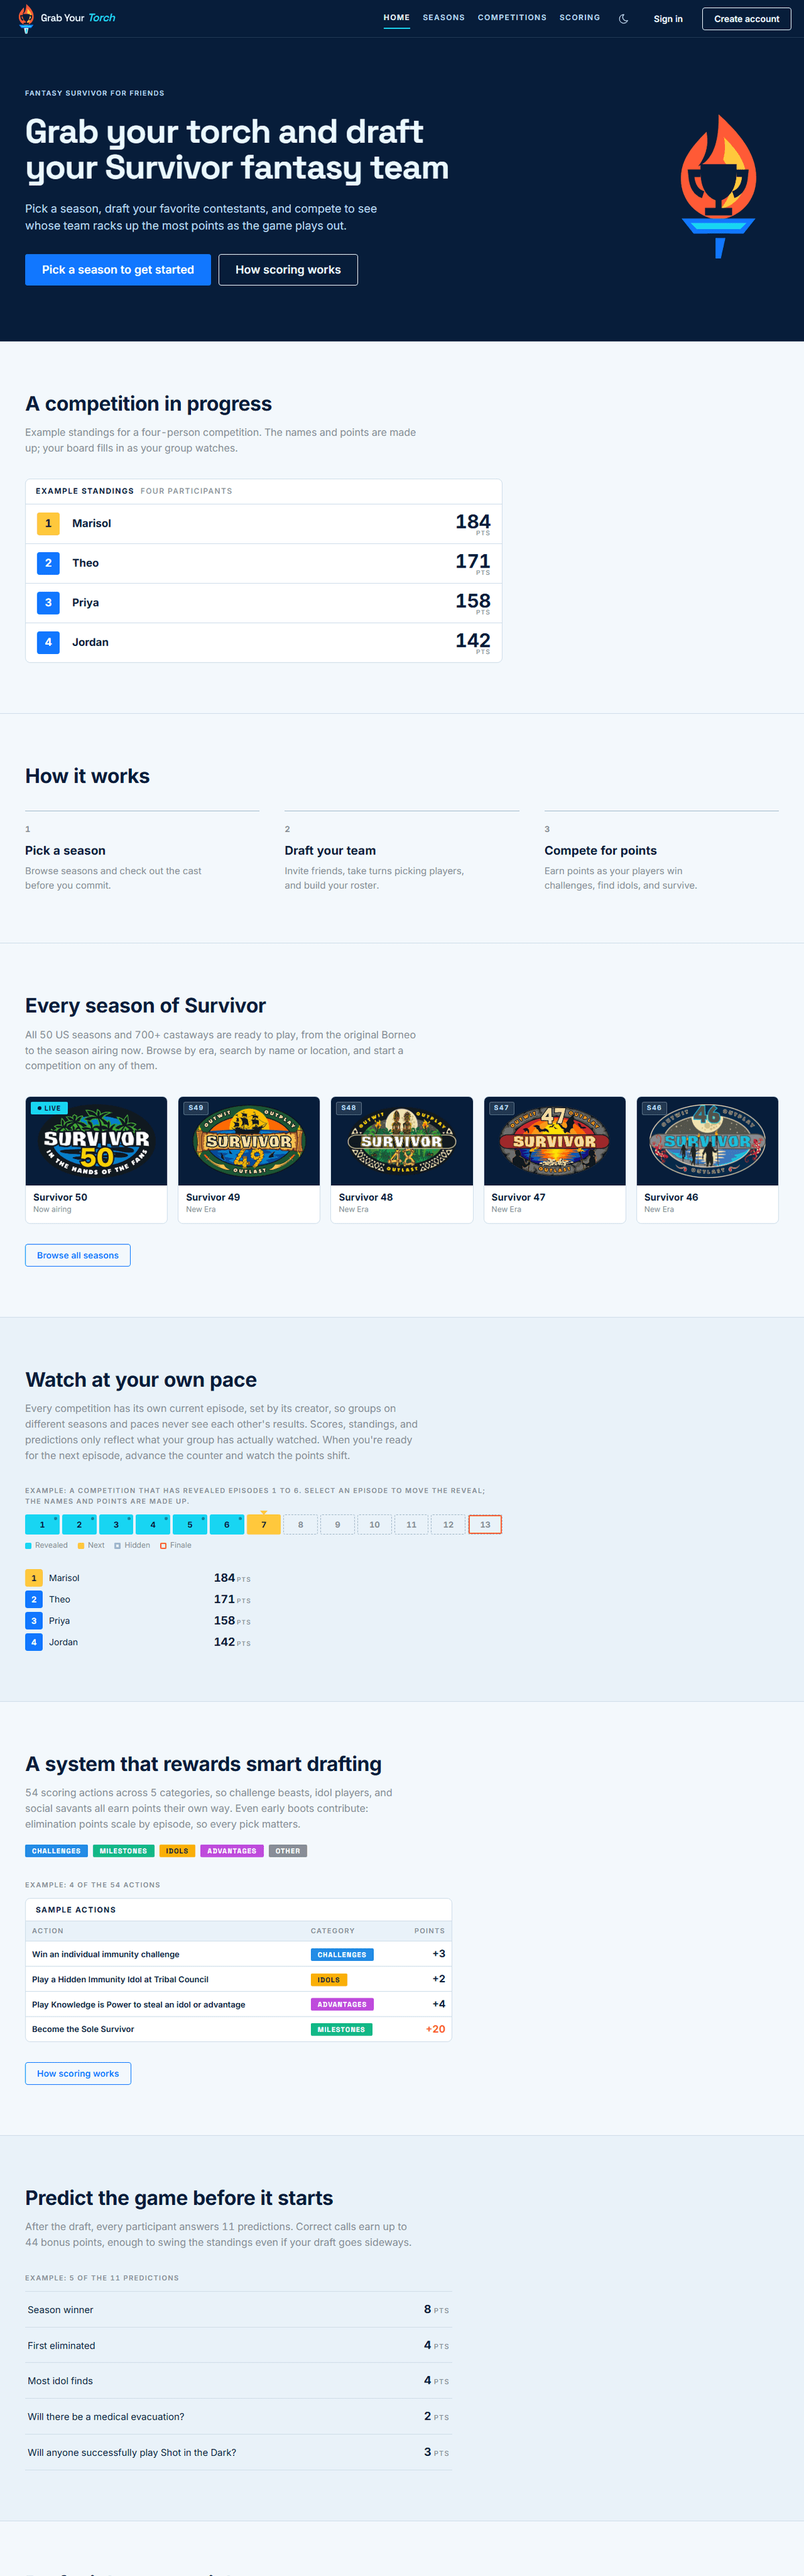
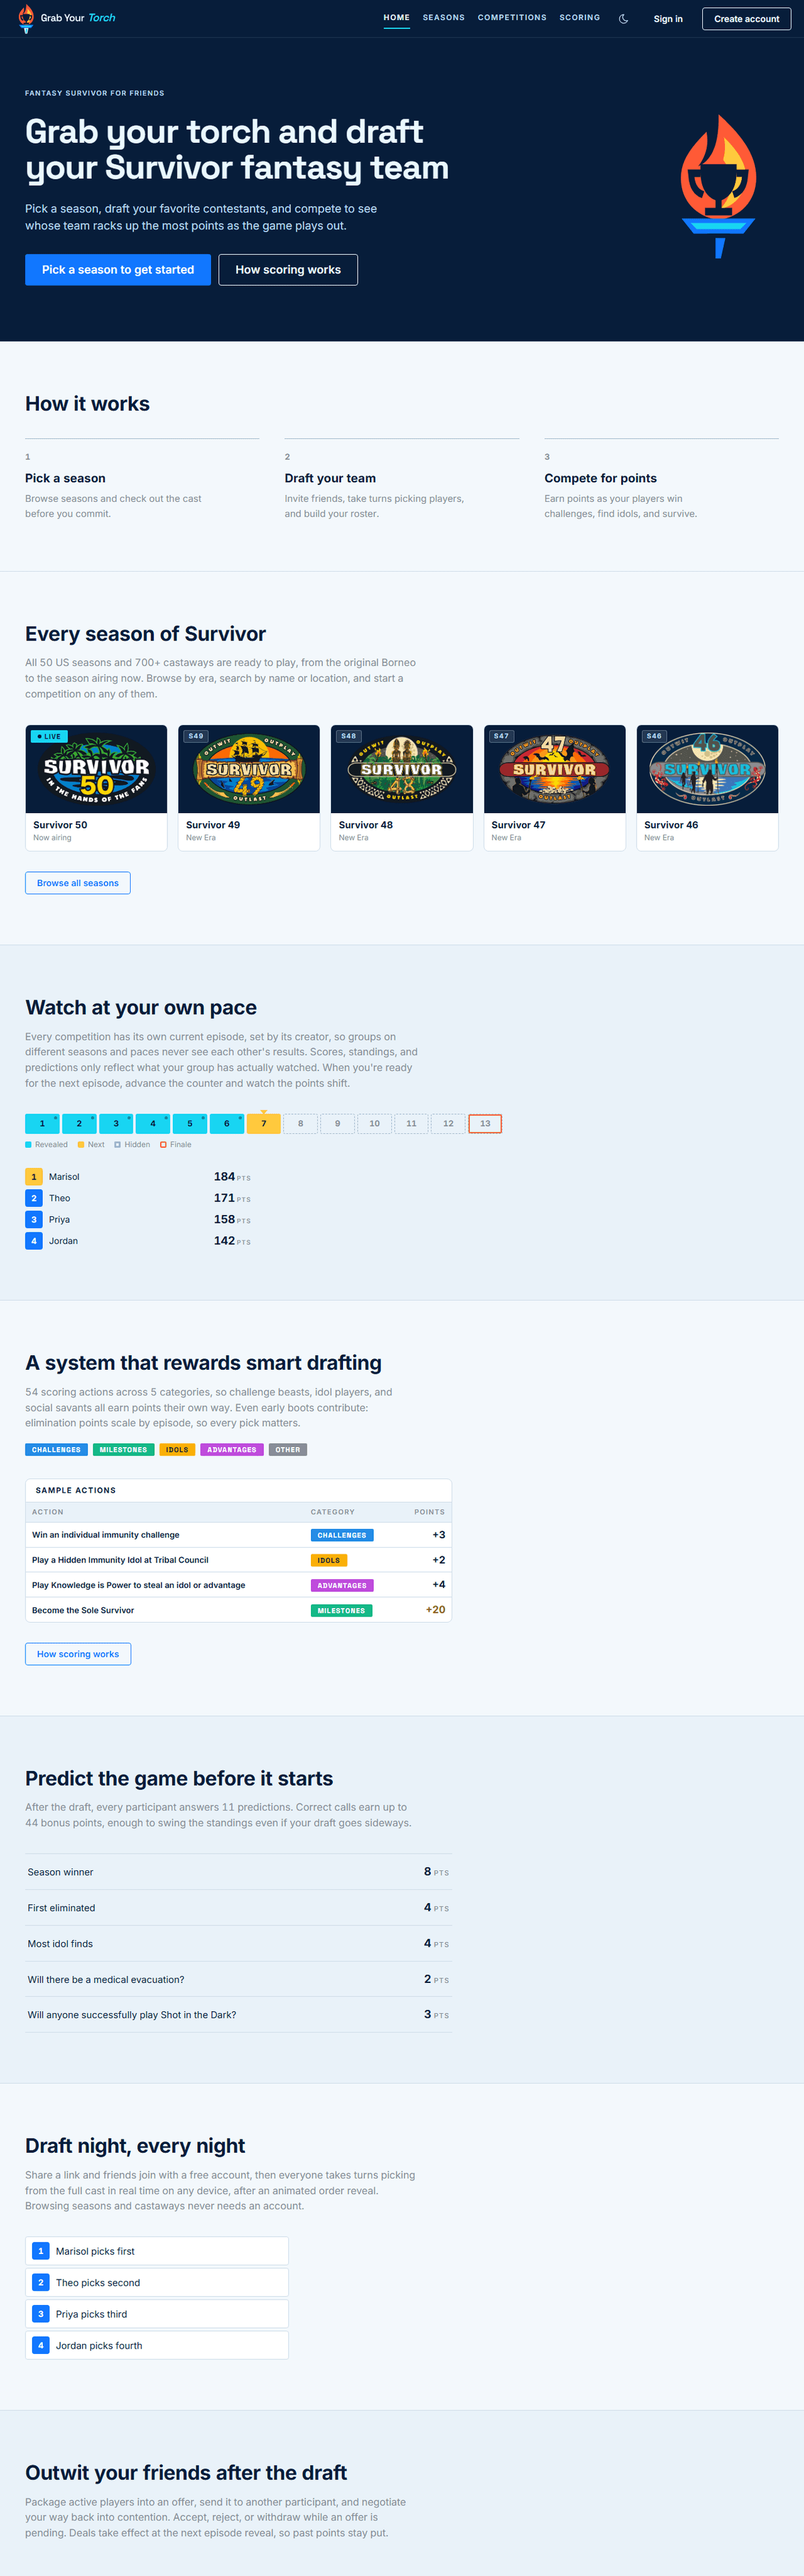
feat: simplify the footer and the homepage examples
- footer: one signature row (lockup, hairline, tagline) with the links on the same baseline; the CBS disclaimer is gone
- homepage: drop the example standings section and every "Example:" caption; the Sole Survivor points are gold, not ember
- seasons: the marquee slot is labelled Latest when no season is airing

diff --git a/src/components/Home/Home.tsx b/src/components/Home/Home.tsx
@@ -150,44 +150,6 @@ export const Home = () => {
       </section>
 
       <div className={classes.sections}>
-        {/* Example standings: fictional participants and points only */}
-        <section aria-labelledby="home-standings" className={classes.section}>
-          <div className={classes.inner}>
-            <div className={classes.head}>
-              <h2 id="home-standings" className={classes.h2}>
-                A competition in progress
-              </h2>
-              <p className={classes.lead}>
-                Example standings for a four-person competition. The names and
-                points are made up; your board fills in as your group watches.
-              </p>
-            </div>
-            <Board
-              title="Example standings"
-              subtitle="Four participants"
-              flush
-              className={classes.boardNarrow}
-            >
-              <ol className={classes.standings}>
-                {EXAMPLE_STANDINGS.map((row, index) => (
-                  <li key={row.name}>
-                    <span
-                      className={`${classes.rank} ${index === 0 ? classes.rankFirst : ""}`}
-                    >
-                      {index + 1}
-                    </span>
-                    <span className={classes.standingName}>{row.name}</span>
-                    <span className={classes.points}>
-                      {row.points}
-                      <small>pts</small>
-                    </span>
-                  </li>
-                ))}
-              </ol>
-            </Board>
-          </div>
-        </section>
-
         {/* How it works */}
         <section aria-labelledby="home-how" className={classes.section}>
           <div className={classes.inner}>
@@ -275,11 +237,6 @@ export const Home = () => {
               </p>
             </div>
             <figure className={`${classes.example} ${classes.exampleStrip}`}>
-              <figcaption className={classes.caption}>
-                Example: a competition that has revealed episodes 1 to{" "}
-                {exampleRevealed}. Select an episode to move the reveal; the
-                names and points are made up.
-              </figcaption>
               <RevealStrip
                 total={EXAMPLE_EPISODES}
                 revealedThrough={exampleRevealed}
@@ -334,9 +291,6 @@ export const Home = () => {
               </div>
             </div>
             <figure className={`${classes.example} ${classes.exampleNarrow}`}>
-              <figcaption className={classes.caption}>
-                Example: 4 of the {ACTION_COUNT} actions
-              </figcaption>
               <Board title="Sample actions" flush scroll>
                 <Table className={classes.table}>
                   <Table.Thead>
@@ -405,9 +359,6 @@ export const Home = () => {
               </p>
             </div>
             <figure className={`${classes.example} ${classes.exampleNarrow}`}>
-              <figcaption className={classes.caption}>
-                Example: {EXAMPLE_BETS.length} of the {BET_COUNT} predictions
-              </figcaption>
               <ol className={classes.bets}>
                 {EXAMPLE_BETS.map((key) => {
                   const bet = PropBetsQuestions[key];
@@ -441,9 +392,6 @@ export const Home = () => {
               </p>
             </div>
             <figure className={`${classes.example} ${classes.exampleNarrow}`}>
-              <figcaption className={classes.caption}>
-                Example: the draft order for a four-person draft
-              </figcaption>
               <ol className={classes.picks}>
                 {EXAMPLE_STANDINGS.map((row, index) => (
                   <li key={row.name}>

diff --git a/src/components/Footer/Footer.module.css b/src/components/Footer/Footer.module.css
@@ -1,6 +1,10 @@
+/*
+ * Footer: one quiet row under a hairline. The lockup and the tagline read as
+ * a single signature, divided the way the header bug divides its context;
+ * the links sit on the same baseline at the far edge.
+ */
 .footer {
   margin-top: auto;
-  padding-top: var(--mantine-spacing-xl);
   border-top: 1px solid var(--gyt-rule);
 }
 
@@ -8,11 +12,11 @@
   display: flex;
   justify-content: space-between;
   align-items: center;
-  gap: var(--mantine-spacing-md);
-  padding-top: var(--mantine-spacing-md);
-  padding-bottom: var(--mantine-spacing-md);
+  gap: var(--mantine-spacing-md) var(--mantine-spacing-xl);
+  padding-top: var(--mantine-spacing-lg);
+  padding-bottom: var(--mantine-spacing-lg);
 
-  @media (max-width: $mantine-breakpoint-xs) {
+  @media (max-width: $mantine-breakpoint-sm) {
     flex-direction: column;
     align-items: flex-start;
   }
@@ -20,20 +24,49 @@
 
 .brand {
   display: flex;
-  flex-direction: column;
-  gap: 6px;
+  align-items: center;
+  gap: 14px;
+  min-width: 0;
+
+  @media (max-width: $mantine-breakpoint-xs) {
+    flex-wrap: wrap;
+    gap: 8px 14px;
+  }
 }
 
 .lockup {
   display: block;
-  width: 160px;
+  flex-shrink: 0;
+  width: 150px;
   height: auto;
-  opacity: 0.85;
+  opacity: 0.9;
+}
+
+.divider {
+  flex-shrink: 0;
+  width: 1px;
+  height: 20px;
+  background: var(--gyt-rule-strong);
+
+  @media (max-width: $mantine-breakpoint-xs) {
+    display: none;
+  }
+}
+
+.tagline {
+  white-space: nowrap;
+
+  @media (max-width: $mantine-breakpoint-xs) {
+    flex-basis: 100%;
+    white-space: normal;
+  }
 }
 
 .links {
   display: flex;
-  gap: var(--mantine-spacing-md);
+  align-items: center;
+  gap: var(--mantine-spacing-lg);
+  flex-shrink: 0;
 }
 
 .link {
@@ -42,10 +75,5 @@
   font-size: 0.75rem;
   letter-spacing: var(--gyt-label-tracking);
   text-transform: uppercase;
-}
-
-.disclaimer {
-  padding-top: var(--mantine-spacing-sm);
-  padding-bottom: var(--mantine-spacing-lg);
-  border-top: 1px solid var(--gyt-rule);
+  white-space: nowrap;
 }

diff --git a/src/components/Home/Home.module.css b/src/components/Home/Home.module.css
@@ -190,38 +190,7 @@
   max-width: 760px;
 }
 
-.caption {
-  font-family: var(--mantine-headings-font-family);
-  font-weight: 600;
-  font-size: 0.6875rem;
-  letter-spacing: var(--gyt-label-tracking);
-  text-transform: uppercase;
-  color: var(--mantine-color-dimmed);
-}
-
-/* ---------- Example standings (rank, name, points) ---------- */
-.boardNarrow {
-  max-width: 760px;
-}
-
-.standings {
-  list-style: none;
-  margin: 0;
-  padding: 0;
-}
-
-.standings li {
-  display: grid;
-  grid-template-columns: 40px minmax(0, 1fr) auto;
-  align-items: center;
-  column-gap: 16px;
-  padding: 12px 18px;
-  border-bottom: 1px solid var(--gyt-rule);
-
-  &:last-child {
-    border-bottom: 0;
-  }
-}
+/* ---------- Ranks (draft order and reveal example) ---------- */
 
 .rank {
   display: inline-grid;
@@ -239,36 +208,6 @@
 .rankFirst {
   background: var(--mantine-color-gold-4);
   color: var(--mantine-color-navy-9);
-}
-
-.standingName {
-  min-width: 0;
-  overflow: hidden;
-  text-overflow: ellipsis;
-  white-space: nowrap;
-  font-family: var(--mantine-headings-font-family);
-  font-weight: 700;
-  font-size: 1.0625rem;
-}
-
-.points {
-  text-align: right;
-  font-family: var(--mantine-headings-font-family);
-  font-weight: 700;
-  font-size: 1.875rem;
-  line-height: 1;
-  letter-spacing: -0.02em;
-  font-variant-numeric: tabular-nums;
-}
-
-.points small {
-  display: block;
-  margin-top: -2px;
-  font-size: 0.625rem;
-  font-weight: 500;
-  letter-spacing: var(--gyt-label-tracking);
-  text-transform: uppercase;
-  color: var(--mantine-color-dimmed);
 }
 
 /* ---------- How it works: three plain steps ---------- */
@@ -365,8 +304,9 @@
   font-variant-numeric: tabular-nums;
 }
 
+/* The win is a victory, not a penalty: gold, never ember, for the big points. */
 .flame {
-  color: var(--mantine-color-ember-6);
+  color: light-dark(var(--mantine-color-gold-8), var(--mantine-color-gold-5));
 }
 
 /* ---------- Predictions: plain rows ---------- */

diff --git a/src/components/Footer/Footer.tsx b/src/components/Footer/Footer.tsx
@@ -15,12 +15,13 @@ export const Footer = () => {
     <footer className={classes.footer}>
       <Container className={classes.inner}>
         <div className={classes.brand}>
-          <BrandLockup width={160} className={classes.lockup} decorative />
-          <Text c="dimmed" size="sm">
+          <BrandLockup width={150} className={classes.lockup} decorative />
+          <span className={classes.divider} aria-hidden="true" />
+          <Text c="dimmed" size="sm" className={classes.tagline}>
             Built for draft night chaos by Davis Ford
           </Text>
         </div>
-        <div className={classes.links}>
+        <nav aria-label="Footer" className={classes.links}>
           {links.map((link) => (
             <Anchor
               c="dimmed"
@@ -34,14 +35,7 @@ export const Footer = () => {
               <VisuallyHidden> (opens in a new tab)</VisuallyHidden>
             </Anchor>
           ))}
-        </div>
-      </Container>
-      <Container className={classes.disclaimer}>
-        <Text c="dimmed" size="xs" ta="center">
-          Grab Your Torch is not affiliated with, endorsed by, or connected to
-          CBS, SEG, or the Survivor TV show. Survivor® is a registered trademark
-          of CBS Broadcasting Inc.
-        </Text>
+        </nav>
       </Container>
     </footer>
   );

diff --git a/src/pages/Seasons.tsx b/src/pages/Seasons.tsx
@@ -101,7 +101,7 @@ export const Seasons = () => {
       <section aria-labelledby="seasons-onair" className={classes.section}>
         <div className={classes.sectionLabel}>
           <h2 id="seasons-onair" className={classes.sectionTitle}>
-            On air
+            {liveSeason ? "On air" : "Latest"}
           </h2>
           {liveSeason && <StatusBadge kind="live" size="sm" />}
         </div>
